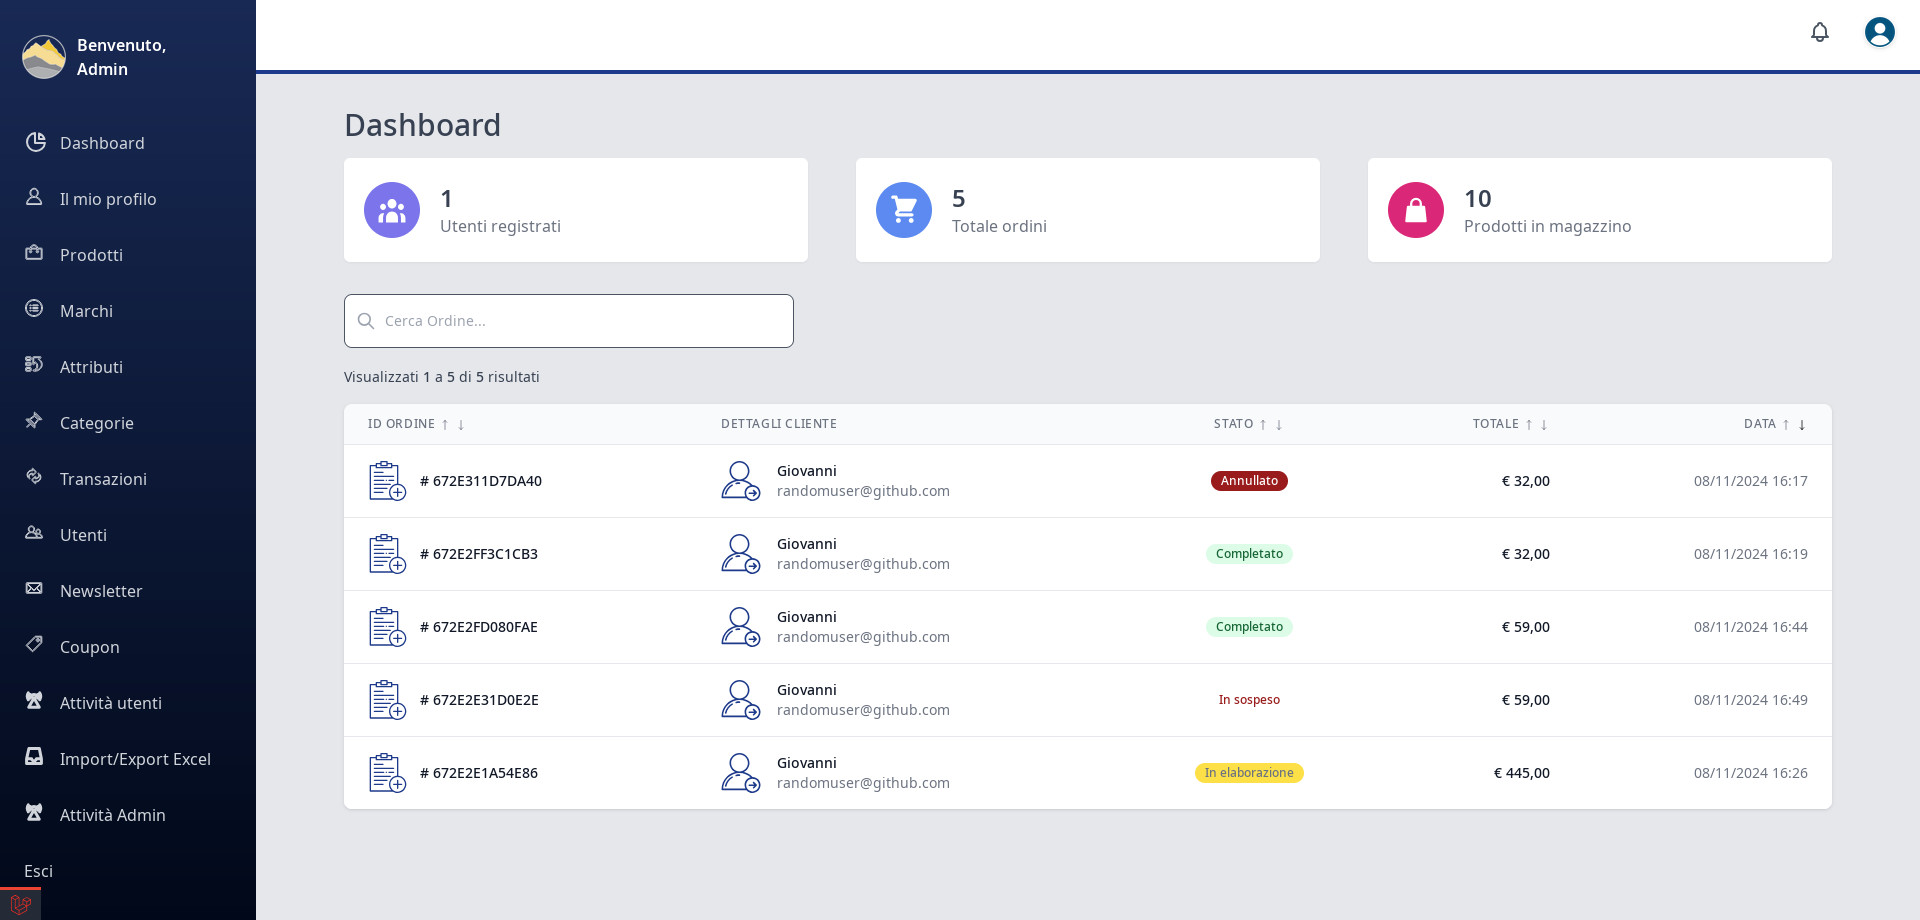
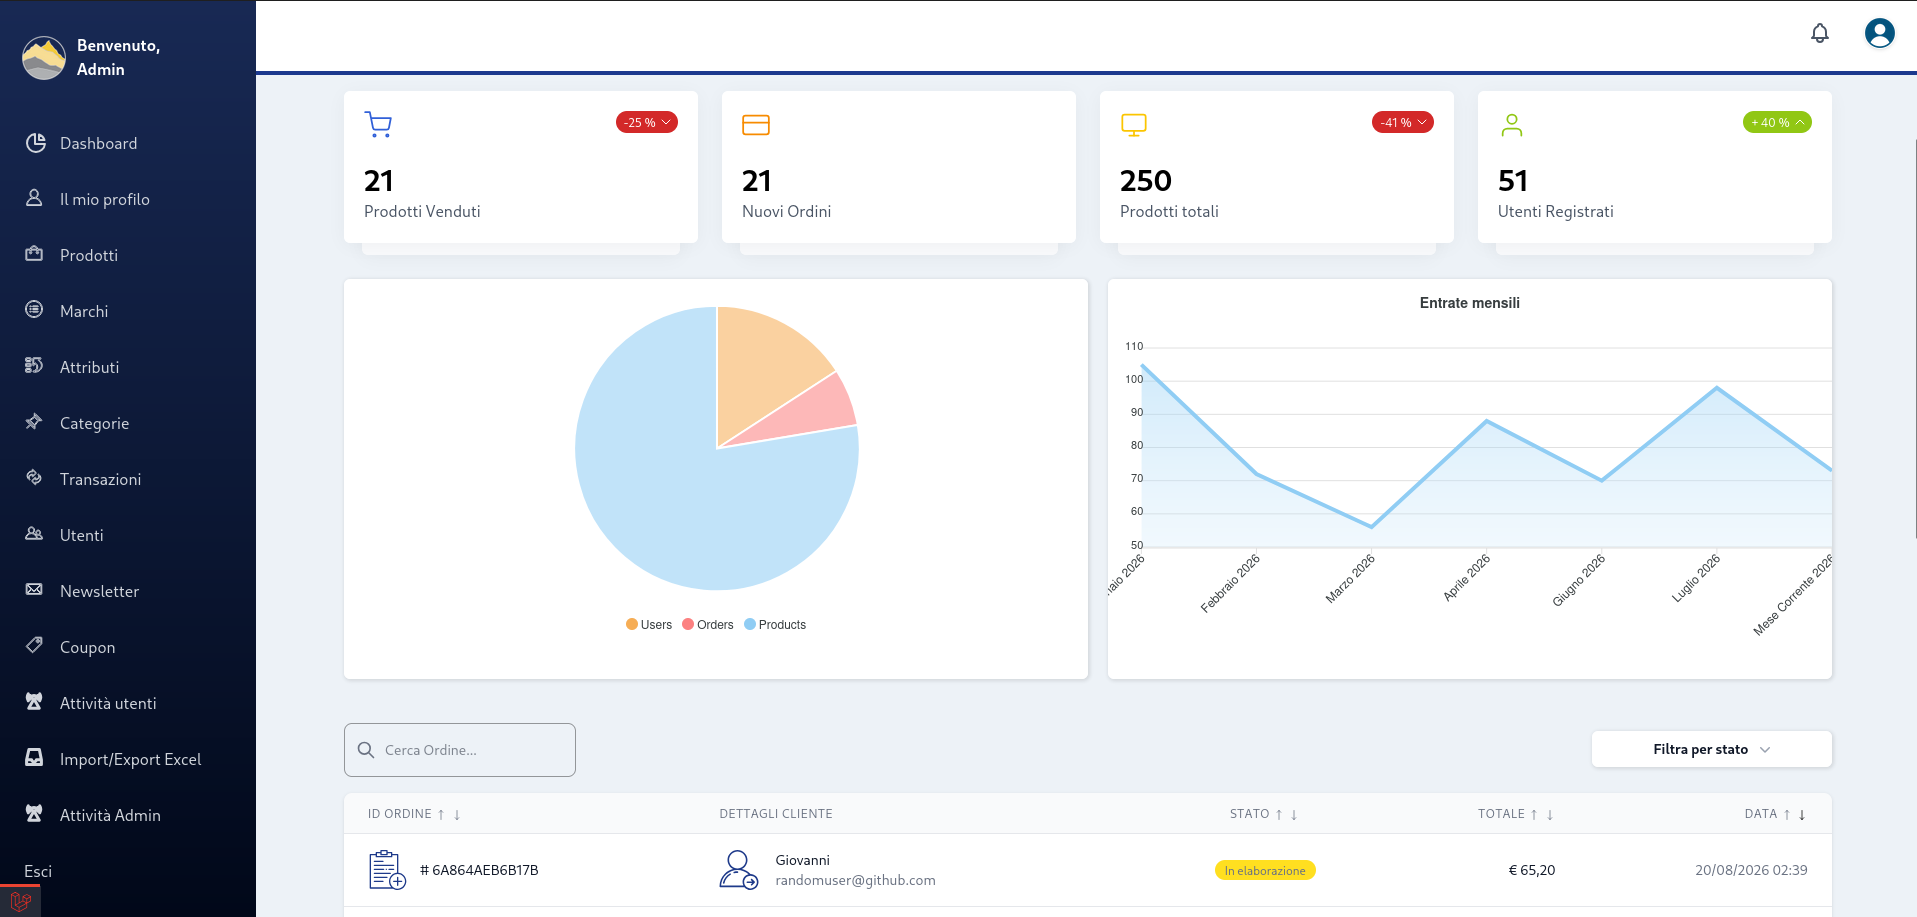
README.md -> fixed

diff --git a/README.md b/README.md
@@ -47,5 +47,5 @@ And much more features.
 
     Check .env.example to set up application
 
-<p align="center"><img src="public/uploads/panel/dashboard-orders.jpg" width="860"></p>
-<p align="center"><img src="public/uploads/panel/admin-products.jpg" width="860"></p>
+<p align="center"><img src="public/uploads/panel/dashboard-panel.jpg" width="860"></p>
+<p align="center"><img src="public/uploads/panel/dashboard-products.jpg" width="860"></p>
